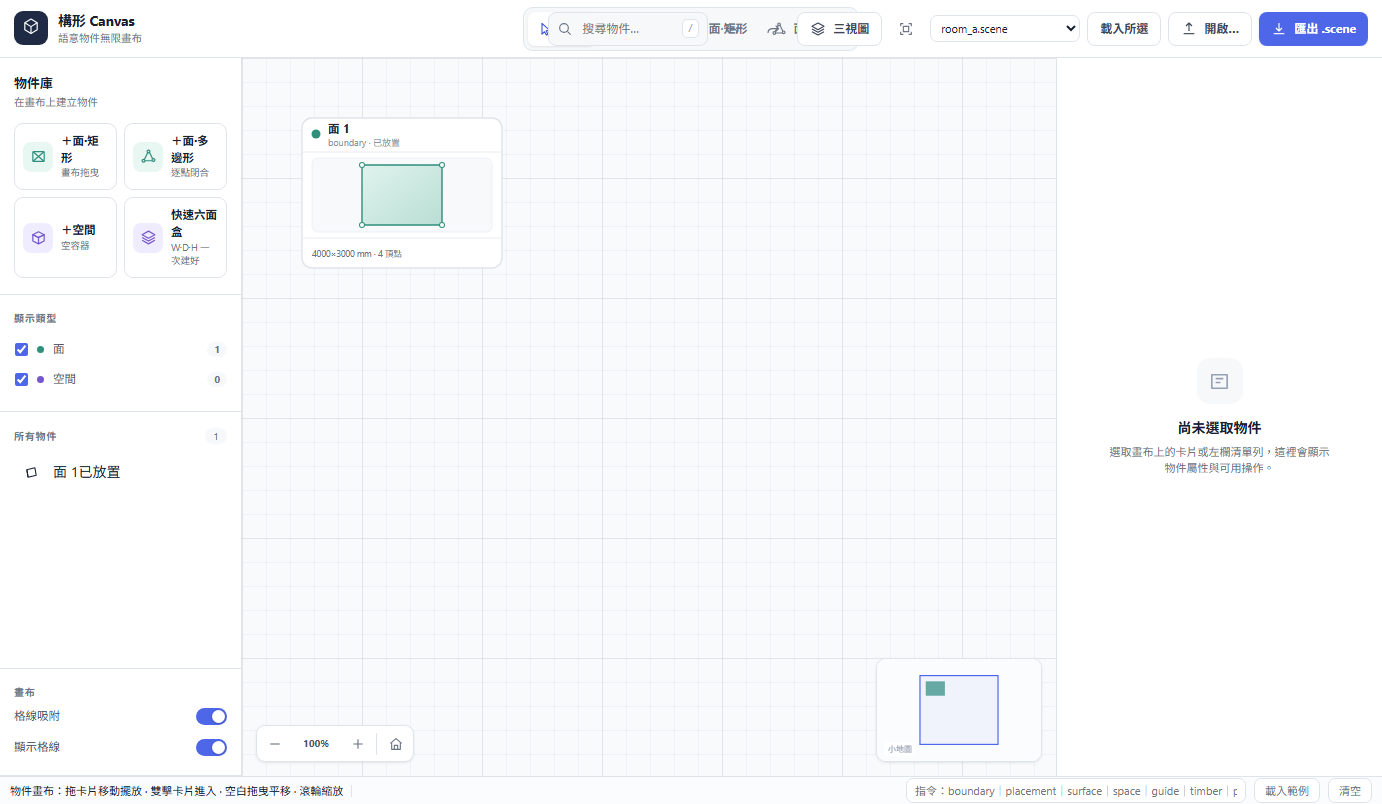
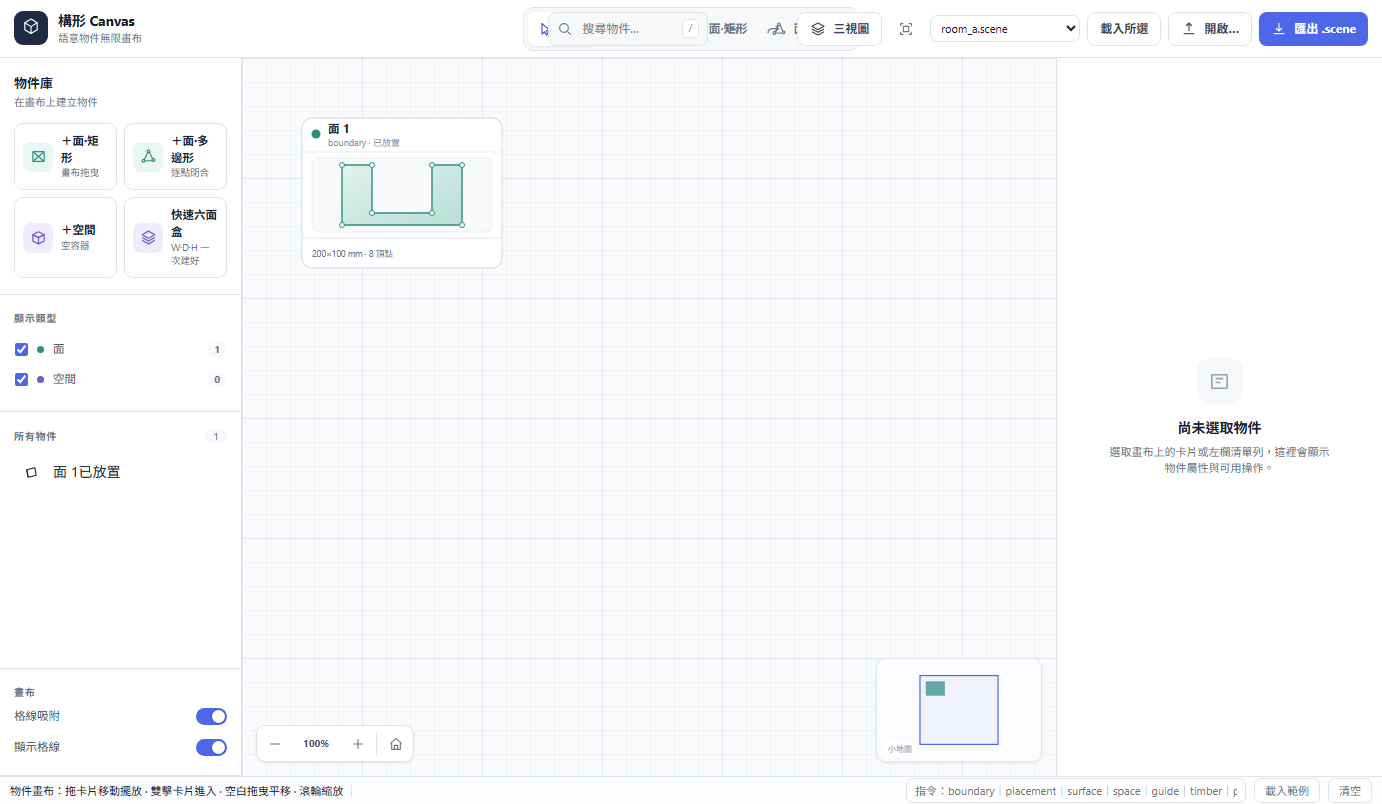
Q3:角材/網格圖形化——面內工具點放角材、表單建網格、圖層列刪除
- 「角材」工具(t):檢視器表單設 L(auto 可留空)/A/B/方向(±u/±v)/深度(±n),
  點面 = 錨點;timber 宣告 + place 兩行走 mutate 交易,核心驗 O1-O3(足跡
  ⊆ 有效區域),越界即拒絕 + toast,dump 不變
- 網格表單:u/v 座標清單 → grid <id> on <sid>,網格線以細點線繪出
- A0 足跡即時預覽:axis_a = axis_b × axis_length 的 uv 版,與核心同式
- 圖層列新增角材/網格列,✕ 走 delete(Q1)移除
- BACKLOG:WEB-004 標記已由前端實作;WEB-002 補註 timber/grid 同路徑
- cdp_test P8:放置/足跡/建網格/越界拒絕/圖層刪除全鏈

裁判:canvas_test 48 pass/0 fail;cdp_test 71 ✓/0 ✗

Generated with [Devin](https://devin.ai)

Changed region(s): [[0.2489, 0.1866, 0.3423, 0.2799], [0.2489, 0.3109, 0.28, 0.342]]

diff --git a/geometry-web/app.js b/geometry-web/app.js
@@ -627,7 +627,7 @@ window.addEventListener("keydown", async e => {
     if (e.target.tagName === "INPUT" || e.target.tagName === "SELECT") return;
     const k = e.key.toLowerCase();
     if (k === " ") { fe.spaceDown = true; e.preventDefault(); return; }
-    const map = { v: "select", l: "guide", r: "hole", h: "pan", i: "insert" };
+    const map = { v: "select", l: "guide", r: "hole", h: "pan", i: "insert", t: "timber" };
     if (map[k]) { feSetTool(map[k]); return; }
     if (k === "f" && oc.edit && oc.bmap[oc.edit.bid]) {
       feFit(loopsBBox(oc.bmap[oc.edit.bid])); return;
@@ -1149,6 +1149,8 @@ const fe = {
   drag: null,              /* vertex/edge/guide/holeRect/guideNew/pan */
   work: null,              /* 拖曳中的 loops 副本 */
   guides: [],              /* [{id, axis, off}] 由 dump 解析 */
+  timbers: [],             /* [{id,u,v,dir,side,L,A,B}] 本面承載的角材 */
+  grids: [],               /* [{id, u:[], v:[]}] 本面網格 */
   spaceDown: false,
   projOpen: false,
   projViews: new Set(),
@@ -1452,7 +1454,7 @@ function feSetTool(t) {
   vp.className = "face-editor-viewport tool-" +
     ({ select: "select", guide: "referenceLine", hole: "opening", pan: "pan", insert: "insert" }[t] || t);
   $("workspaceToolStatus").textContent = "工具：" +
-    ({ select: "選取", guide: "參考線", hole: "開口", pan: "平移", insert: "插入頂點" }[t] || t);
+    ({ select: "選取", guide: "參考線", hole: "開口", pan: "平移", insert: "凹口", timber: "角材" }[t] || t);
   /* 游離面：參考線工具停用 */
   const gb = document.querySelector('[data-face-tool="guide"]');
   if (gb) {
@@ -1463,15 +1465,31 @@ function feSetTool(t) {
 }
 
 async function feLoadGuides() {
-  fe.guides = [];
+  fe.guides = []; fe.timbers = []; fe.grids = [];
   const bid = oc.edit && oc.edit.bid, sid = bid && feSid(bid);
   if (!sid) return;
   const d = await api("dump");
   if (!d.ok || !d.text) return;
+  const timberDecl = {};
   for (const ln of d.text.split("\n")) {
     const m = ln.match(/^guide (\d+) (\d+) (u|v) (-?\d+)\s*$/);
     if (m && +m[2] === sid)
       fe.guides.push({ id: +m[1], axis: m[3], off: +m[4] });
+    const tm = ln.match(/^timber (\d+) (\d+) (\d+) (\d+)\s*$/);
+    if (tm) timberDecl[+tm[1]] = { L: +tm[2], A: +tm[3], B: +tm[4] };
+    const ta = ln.match(/^timber (\d+) (\d+) (\d+)\s*$/);
+    if (ta && !timberDecl[+ta[1]])
+      timberDecl[+ta[1]] = { L: 0, A: +ta[2], B: +ta[3] };
+    const pm = ln.match(/^place (\d+) on (\d+) at (-?\d+) (-?\d+) ([+-][uv]) ([+-]n)\s*$/);
+    if (pm && +pm[2] === sid && timberDecl[+pm[1]])
+      fe.timbers.push({ id: +pm[1], u: +pm[3], v: +pm[4],
+                        dir: pm[5], side: pm[6], ...timberDecl[+pm[1]] });
+    const gm = ln.match(/^grid (\d+) on (\d+) (u|v) (.+)\s*$/);
+    if (gm && +gm[2] === sid) {
+      const g = fe.grids.find(x => x.id === +gm[1]) ||
+        fe.grids[fe.grids.push({ id: +gm[1], u: [], v: [] }) - 1];
+      g[gm[3]] = gm[4].trim().split(/\s+/).map(Number);
+    }
   }
 }
 
@@ -1533,6 +1551,26 @@ function drawFaceEditor() {
     el("line", { x1: seg[0], y1: seg[1], x2: seg[2], y2: seg[3],
       "data-face-hit": `g:${g.id}:${g.axis}`,
       stroke: "transparent", "stroke-width": Math.max(8, 14 / z) }, root);
+  }
+  /* 網格（Q3）：比參考線細的點線 */
+  for (const g of fe.grids || []) {
+    for (const c of g.u)
+      el("line", { x1: c, y1: gb[1], x2: c, y2: gb[3], class: "face-grid-line" }, root);
+    for (const c of g.v)
+      el("line", { x1: gb[0], y1: c, x2: gb[2], y2: c, class: "face-grid-line" }, root);
+  }
+  /* 角材 A0 足跡（Q3）：axis_a = axis_b × axis_length 的 uv 版 */
+  for (const t2 of fe.timbers || []) {
+    const s = t2.side === "+n" ? 1 : -1;
+    const len_uv = t2.dir === "+u" ? [1, 0] : t2.dir === "-u" ? [-1, 0]
+                 : t2.dir === "+v" ? [0, 1] : [0, -1];
+    const a_uv = t2.dir === "+u" ? [0, s] : t2.dir === "-u" ? [0, -s]
+               : t2.dir === "+v" ? [-s, 0] : [s, 0];
+    const fu = t2.u + t2.L * len_uv[0] + t2.A * a_uv[0];
+    const fv = t2.v + t2.L * len_uv[1] + t2.A * a_uv[1];
+    el("rect", { x: Math.min(t2.u, fu), y: Math.min(t2.v, fv),
+      width: Math.abs(fu - t2.u), height: Math.abs(fv - t2.v),
+      class: "face-timber" }, root);
   }
   /* 草稿 */
   const d = fe.drag;
@@ -1615,6 +1653,29 @@ async function feDown(pt, ev) {
     lp.fixity.splice(i + 1, 0, false, false, false, lp.fixity[i]);
     fe.work = null;
     if (await emitBoundary(e.bid, loops)) await feAfterChange();
+    return;
+  }
+  if (fe.tool === "timber") {
+    /* Q3 角材：點面 = 錨點;尺寸/方向/深度讀檢視器表單,
+       timber 宣告 + place 兩行走 mutate 交易。 */
+    const sid = feSid(e.bid);
+    if (!sid) { setStatus("游離面不能放角材——先在檢視器「放置」"); return; }
+    const L = Math.round(+($("tbLen") || {}).value || 0);
+    const A = Math.round(+($("tbA") || {}).value || 0);
+    const B = Math.round(+($("tbB") || {}).value || 0);
+    if (!(A > 0) || !(B > 0) || L < 0) {
+      setStatus("角材 A/B 要是正整數，L 留空 = auto"); return;
+    }
+    const dir = ($("tbDir") || {}).value || "+u";
+    const side = ($("tbSide") || {}).value || "+n";
+    const ids = await api("newid");
+    const decl = L ? `timber ${ids.timber} ${L} ${A} ${B}`
+                   : `timber ${ids.timber} ${A} ${B}`;
+    const u = Math.round(pt.x), v = Math.round(pt.y);
+    if (await mutate([decl,
+        `place ${ids.timber} on ${sid} at ${u} ${v} ${dir} ${side}`])) {
+      await feLoadGuides(); drawFaceEditor(); renderFaceLayers();
+    }
     return;
   }
   /* select：data-face-hit 命中 v:<loop>:<i> / e:<loop>:<i> / g:<id>:<axis> */
@@ -1758,6 +1819,19 @@ function renderFaceLayers() {
         await feLoadGuides(); renderFaceLayers(); drawFaceEditor();
       }
     });
+  for (const t2 of fe.timbers || [])
+    row("▤", `角材 ${t2.id}`, `${t2.L || "auto"}×${t2.A}×${t2.B} @(${t2.u},${t2.v}) ${t2.dir}${t2.side}`,
+      async () => {
+        if (await emitLine(`delete timber ${t2.id}`)) {
+          await feLoadGuides(); renderFaceLayers(); drawFaceEditor();
+        }
+      });
+  for (const g of fe.grids || [])
+    row("╬", `網格 ${g.id}`, `u×${g.u.length} v×${g.v.length}`, async () => {
+      if (await emitLine(`delete grid ${g.id}`)) {
+        await feLoadGuides(); renderFaceLayers(); drawFaceEditor();
+      }
+    });
   $("faceLayerCount").textContent = n;
 }
 
@@ -1807,6 +1881,25 @@ function renderFaceInspector() {
   html += `</div></div>`;
   /* 放置表單（§5.5.3a：游離與已放置都可重綁） */
   html += placeFormHTML(bid);
+  /* 角材放置參數（Q3：選「角材」工具後在面上點擊） */
+  html += `<div class="inspector-block"><div class="ib-title">角材放置</div>` +
+    `<div class="place-form">` +
+    `<label>長度 L<input id="tbLen" type="number" placeholder="auto"></label>` +
+    `<label>A<input id="tbA" type="number" value="27"></label>` +
+    `<label>B<input id="tbB" type="number" value="33"></label>` +
+    `<label>方向<select id="tbDir">` +
+    ["+u", "-u", "+v", "-v"].map(d => `<option>${d}</option>`).join("") +
+    `</select></label>` +
+    `<label>深度<select id="tbSide"><option>+n</option><option>-n</option></select></label>` +
+    `</div><div class="face-help">` +
+    (surf ? "選「角材」工具後在面上點擊放置（足跡需落在有效區域內）"
+          : "游離面：先「放置」才可放角材") + `</div></div>`;
+  /* 網格（Q3：u/v 軸座標清單，空白分隔） */
+  html += `<div class="inspector-block"><div class="ib-title">網格</div>` +
+    `<div class="place-form">` +
+    `<label>u 座標<input id="gridU" placeholder="500 1500"></label>` +
+    `<label>v 座標<input id="gridV" placeholder="300 900"></label>` +
+    `</div><button class="btn" id="gridCreate"${surf ? "" : " disabled"}>建立網格</button></div>`;
   /* 投影面板（§5.5.4） */
   html += `<div class="inspector-block"><div class="ib-title">` +
     `<button id="projToggle" class="text-button">${fe.projOpen ? "▾" : "▸"} 投影視圖</button></div>` +
@@ -1827,6 +1920,25 @@ function renderFaceInspector() {
       if (await emitBoundary(bid, nl)) await feAfterChange();
     });
   bindPlaceForm(pane, bid);
+  const gc = pane.querySelector("#gridCreate");
+  if (gc) gc.addEventListener("click", async () => {
+    const sid = feSid(bid);
+    if (!sid) return;
+    const parse = id => (($(id) || {}).value || "").trim()
+      .split(/[\s,]+/).filter(Boolean).map(Number);
+    const u = parse("gridU"), v = parse("gridV");
+    if (!u.length && !v.length) { setStatus("至少給一個 u 或 v 座標"); return; }
+    if ([...u, ...v].some(n => !Number.isInteger(n))) {
+      setStatus("網格座標要是整數"); return;
+    }
+    const ids = await api("newid");
+    let line = `grid ${ids.grid} on ${sid}`;
+    if (u.length) line += ` u ${u.join(" ")}`;
+    if (v.length) line += ` v ${v.join(" ")}`;
+    if (await emitLine(line)) {
+      await feLoadGuides(); drawFaceEditor(); renderFaceLayers();
+    }
+  });
   const pt = pane.querySelector("#projToggle");
   pt.addEventListener("click", async () => {
     fe.projOpen = !fe.projOpen;

diff --git a/geometry-web/cdp_test.js b/geometry-web/cdp_test.js
@@ -729,6 +729,65 @@ async function drag(x0, y0, x1, y1, steps = 6) {
   await eval_(`leaveFocus()`);
   await sleep(300);
 
+  /* Q3:角材/網格圖形化——工具點放角材、表單建網格、圖層列刪除 */
+  console.log("=== P8. 角材與網格(Q3)===");
+  const q3R = await eval_(`(async()=>{
+    await api("line reset");
+    await api("line surface 1 origin 0 0 0 u +x v +y outline 0,0 4000,0 4000,3000 0,3000");
+    await renderObjects();
+    await enterFocus("face", 1);
+    /* 角材:設定 L/A/B + 方向 + 深度 → timber 工具點 (500,300) */
+    $("tbLen").value = "1800"; $("tbA").value = "27"; $("tbB").value = "33";
+    $("tbDir").value = "+u"; $("tbSide").value = "+n";
+    feSetTool("timber");
+    await feDown({x: 500, y: 300}, {target: $("faceEditorSvg"), clientX: 0, clientY: 0});
+    await new Promise(r=>setTimeout(r,300));
+    const dump1 = (await api("dump")).text;
+    const hasTimber = /timber \\d+ 1800 27 33/.test(dump1) &&
+                      /place \\d+ on \\d+ at 500 300 \\+u \\+n/.test(dump1);
+    const fp = document.querySelector(".face-timber");
+    /* 網格:表單建 u 500 1500 / v 300 900 */
+    $("gridU").value = "500 1500"; $("gridV").value = "300 900";
+    $("gridCreate").click();
+    await new Promise(r=>setTimeout(r,300));
+    const dump2 = (await api("dump")).text;
+    const hasGrid = /grid \\d+ on \\d+ u 500 1500/.test(dump2) &&
+                    /grid \\d+ on \\d+ v 300 900/.test(dump2);
+    const gridLines = document.querySelectorAll(".face-grid-line").length;
+    const rows = [...document.querySelectorAll(".face-layer-row strong")]
+      .map(x => x.textContent).join("|");
+    return {hasTimber, fp: !!fp, hasGrid, gridLines, rows};
+  })()`);
+  console.log("角材放置:", q3R.hasTimber ? "✓" : "✗",
+    "| 足跡繪製:", q3R.fp ? "✓" : "✗",
+    "| 網格建立:", q3R.hasGrid ? "✓" : "✗",
+    "| 網格線數:", q3R.gridLines, q3R.gridLines === 4 ? "✓" : "✗",
+    "| 圖層列:", /角材/.test(q3R.rows) && /網格/.test(q3R.rows) ? "✓" : "✗");
+  /* 足跡越界 → 核心拒絕,toast + dump 不變 */
+  const q3b = await eval_(`(async()=>{
+    const before = (await api("dump")).text;
+    feSetTool("timber");
+    await feDown({x: 3999, y: 2999}, {target: $("faceEditorSvg"), clientX: 0, clientY: 0});
+    await new Promise(r=>setTimeout(r,300));
+    const after = (await api("dump")).text;
+    const toastShown = [...document.querySelectorAll(".toast")]
+      .map(t => t.textContent).join("|");
+    return {same: before === after, toast: toastShown};
+  })()`);
+  console.log("越界拒絕:", q3b.same ? "✓" : "✗",
+    "| toast:", q3b.toast ? "✓" : "✗");
+  /* 圖層列 ✕ 刪角材與網格 */
+  const q3c = await eval_(`(async()=>{
+    const dels = [...document.querySelectorAll(".face-layer-del")];
+    for (const b of dels) { b.click(); await new Promise(r=>setTimeout(r,200)); }
+    const dump = (await api("dump")).text;
+    return {noTimber: !/timber /.test(dump), noGrid: !/grid /.test(dump)};
+  })()`);
+  console.log("角材已刪:", q3c.noTimber ? "✓" : "✗",
+    "| 網格已刪:", q3c.noGrid ? "✓" : "✗");
+  await eval_(`leaveFocus()`);
+  await sleep(300);
+
   console.log("=== 10. 三視圖覆層再開 ===");
   await eval_(`document.getElementById("btnObj").click()`);
   await sleep(800);

diff --git a/geometry-web/index.html b/geometry-web/index.html
@@ -204,6 +204,7 @@
         <button type="button" class="workspace-tool" data-face-tool="guide" title="參考線 (l)"><span>參考線</span></button>
         <button type="button" class="workspace-tool" data-face-tool="hole" title="開口 (r)"><span>開口</span></button>
         <button type="button" class="workspace-tool" data-face-tool="insert" title="插入凹口 (i)"><span>凹口</span></button>
+        <button type="button" class="workspace-tool" data-face-tool="timber" title="角材 (t)"><span>角材</span></button>
         <button type="button" class="workspace-tool" data-face-tool="pan" title="平移 (h/空白鍵)"><span>平移</span></button>
         <span class="workspace-tool-separator"></span>
         <button type="button" id="faceUndoButton" class="workspace-icon-button" title="復原 (Ctrl+Z)"><span>↶</span></button>

diff --git a/geometry-web/app.css b/geometry-web/app.css
@@ -848,3 +848,8 @@ body.oc-busy input, body.oc-busy select, body.oc-busy textarea { pointer-events:
 }
 .face-layer-del:hover { color: #c0392b; background: #fdecea; }
 
+/* Q3：網格線與角材足跡 */
+.face-editor-svg .face-grid-line { fill: none; stroke: #b8c2d0; stroke-width: 1;
+  stroke-dasharray: 2 5; vector-effect: non-scaling-stroke; }
+.face-editor-svg .face-timber { fill: rgba(196,120,26,.24); stroke: #c4781a;
+  stroke-width: 1.6; vector-effect: non-scaling-stroke; }

diff --git a/BACKLOG.md b/BACKLOG.md
@@ -466,6 +466,7 @@
 
 ### WEB-002 新增 `guides <sid>` 列舉指令
 - **內容**:回傳指定承載面上的參考線(id/軸/offset)。目前 UI 只能 parse `dump` 文本的 `^guide` 行,脆弱且繞路。
+  Q3 後 timber/place/grid 也走同一路徑解析——若做本單,建議擴成 `refs <sid>` 一次回傳 guides+timbers+grids。
 - **驗收**:JSON 輸出 `{"ok":true,"guides":[{"id":..,"surface":..,"axis":"u","offset":..}]}`;空面回空陣列非錯誤。
 - **檔案**:`web_bridge.c`(指令表)。
 - **測試**:建 guide → 列舉 → move → 再列舉。
@@ -478,8 +479,8 @@
 - **測試**:回歸全綠 + 新增 12 面場景。
 - **相依**:無。**估時 1h**(若動態化另估)。
 
-### WEB-004 正交頂點插入的原語(§9 Q2)
-- **內容**:`boundary <id> insert-edge <e> <u|v> <off>` 一次插凹口(兩頂點),由核心保證正交;UI 端才能做「雙擊邊插點」手勢。
+### WEB-004 ✅ 已由前端實作(Q2,commit 69f59fe) 正交頂點插入
+- **結果**:核心公理拒絕共線頂點,正確原語是「矩形凹口(4 頂點)」;已於面內工具實作——點邊自動插凹口,走既有 `boundary` 重宣告交易,核心再驗。C 端原語不再必要,留檔備查。
 - **驗收**:在邊中段插入合法凹口後 `boundary` 指令重驗通過;非法位置(撞孔/越界)回錯誤不落地。
 - **檔案**:`current_geometry.c`。
 - **測試**:四邊各插一次 + 撞孔案例 + undo。

diff --git a/geometry-web/docs/DOM-CONTRACT.md b/geometry-web/docs/DOM-CONTRACT.md
@@ -66,7 +66,10 @@
 | `[data-tool]` | 頂列工具鈕(select/pan/rect/poly) | `dataset.tool`、`.active` |
 | `[data-filter-type]` | 顯示類型篩選(face/space) | `checked` 狀態 |
 | `[data-icon]` | 圖示插槽 | hydrateIcons 填充 |
-| `[data-face-tool]` | 面內工具鈕(select/guide/hole/pan/insert) | `dataset.faceTool`、`.active`、`.disabled`(游離面 guide 停用) |
+| `[data-face-tool]` | 面內工具鈕(select/guide/hole/pan/insert/timber) | `dataset.faceTool`、`.active`、`.disabled`(游離面 guide 停用) |
+| `#tbLen` `#tbA` `#tbB` `#tbDir` `#tbSide` | 角材放置參數表單(Q3) | `value` 讀寫 |
+| `#gridU` `#gridV` `#gridCreate` | 網格建立表單(Q3) | `value`、`.click()`、游離面 disabled |
+| `.face-timber` / `.face-grid-line` | 面內角材足跡/網格線(Q3) | `#faceEditorRoot` 內計數 |
 | `[data-face-hit]` | 面編輯器命中層(`v:<loop>:<i>`/`e:<loop>:<i>`/`g:<id>:<axis>`) | pointerdown 命中(非同步 bhit 已由它取代) |
 | `[data-place-preset]` | 放置預設鈕 | `dataset.placePreset`、`.click()` |
 | `[data-proj-check]` | 投影視圖勾選 | `checked` |
